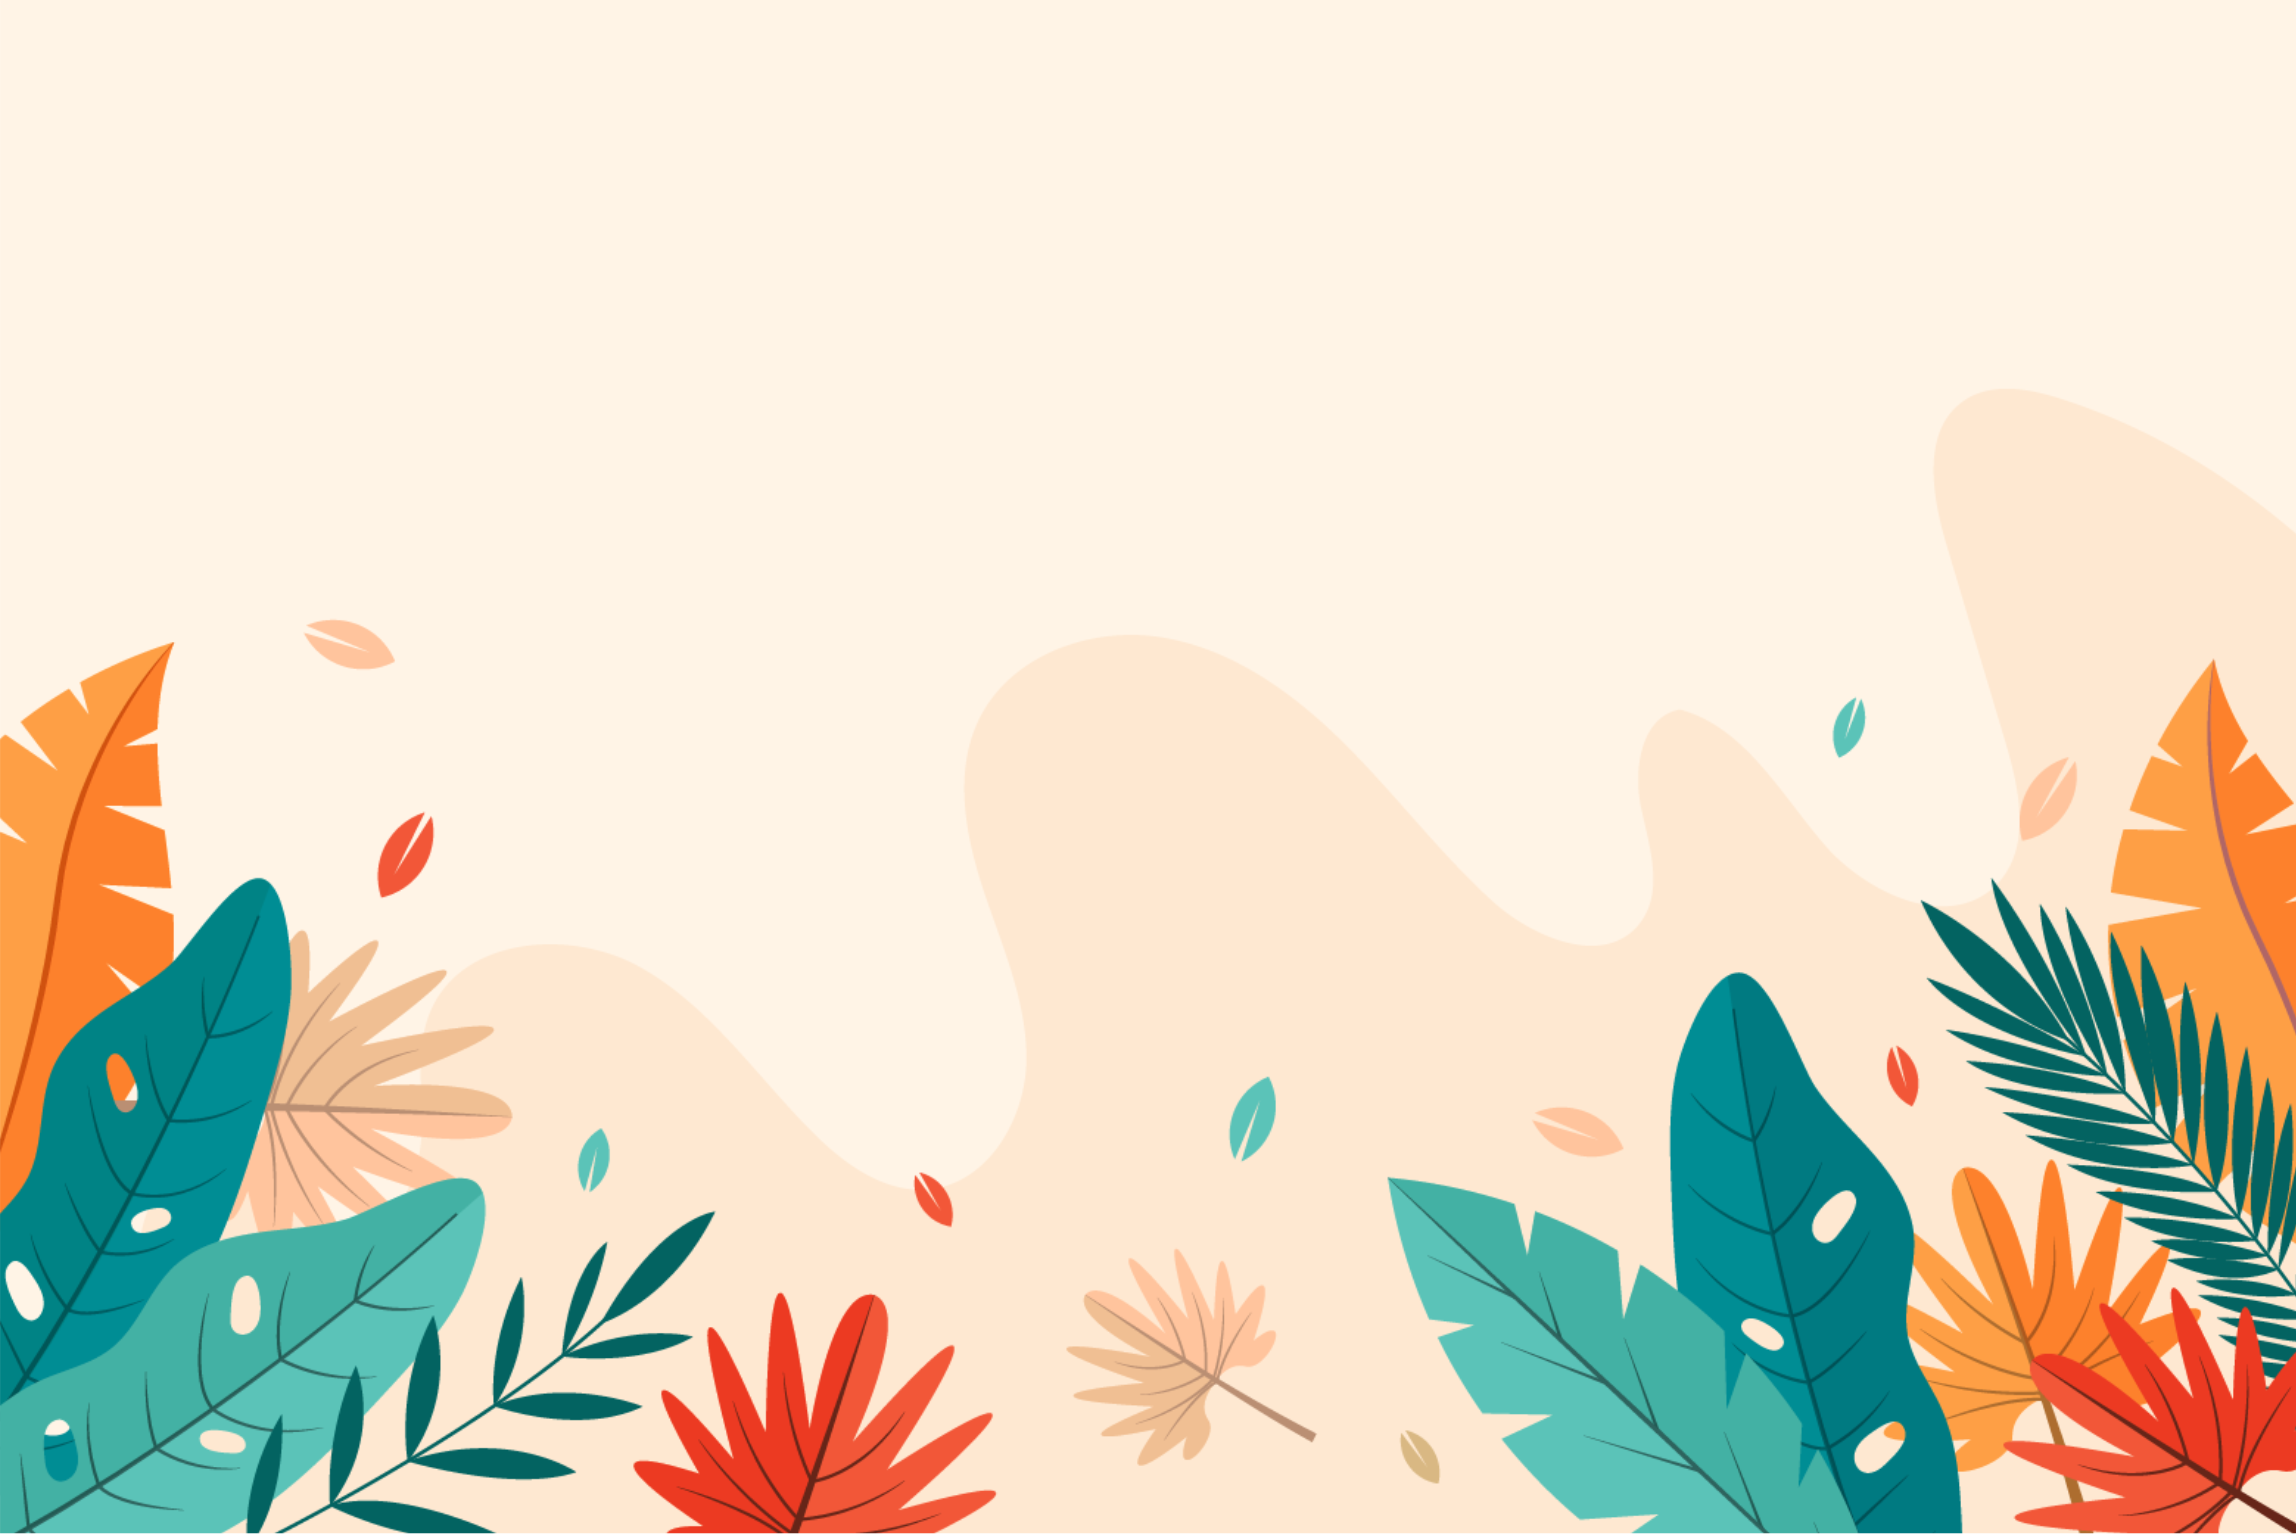
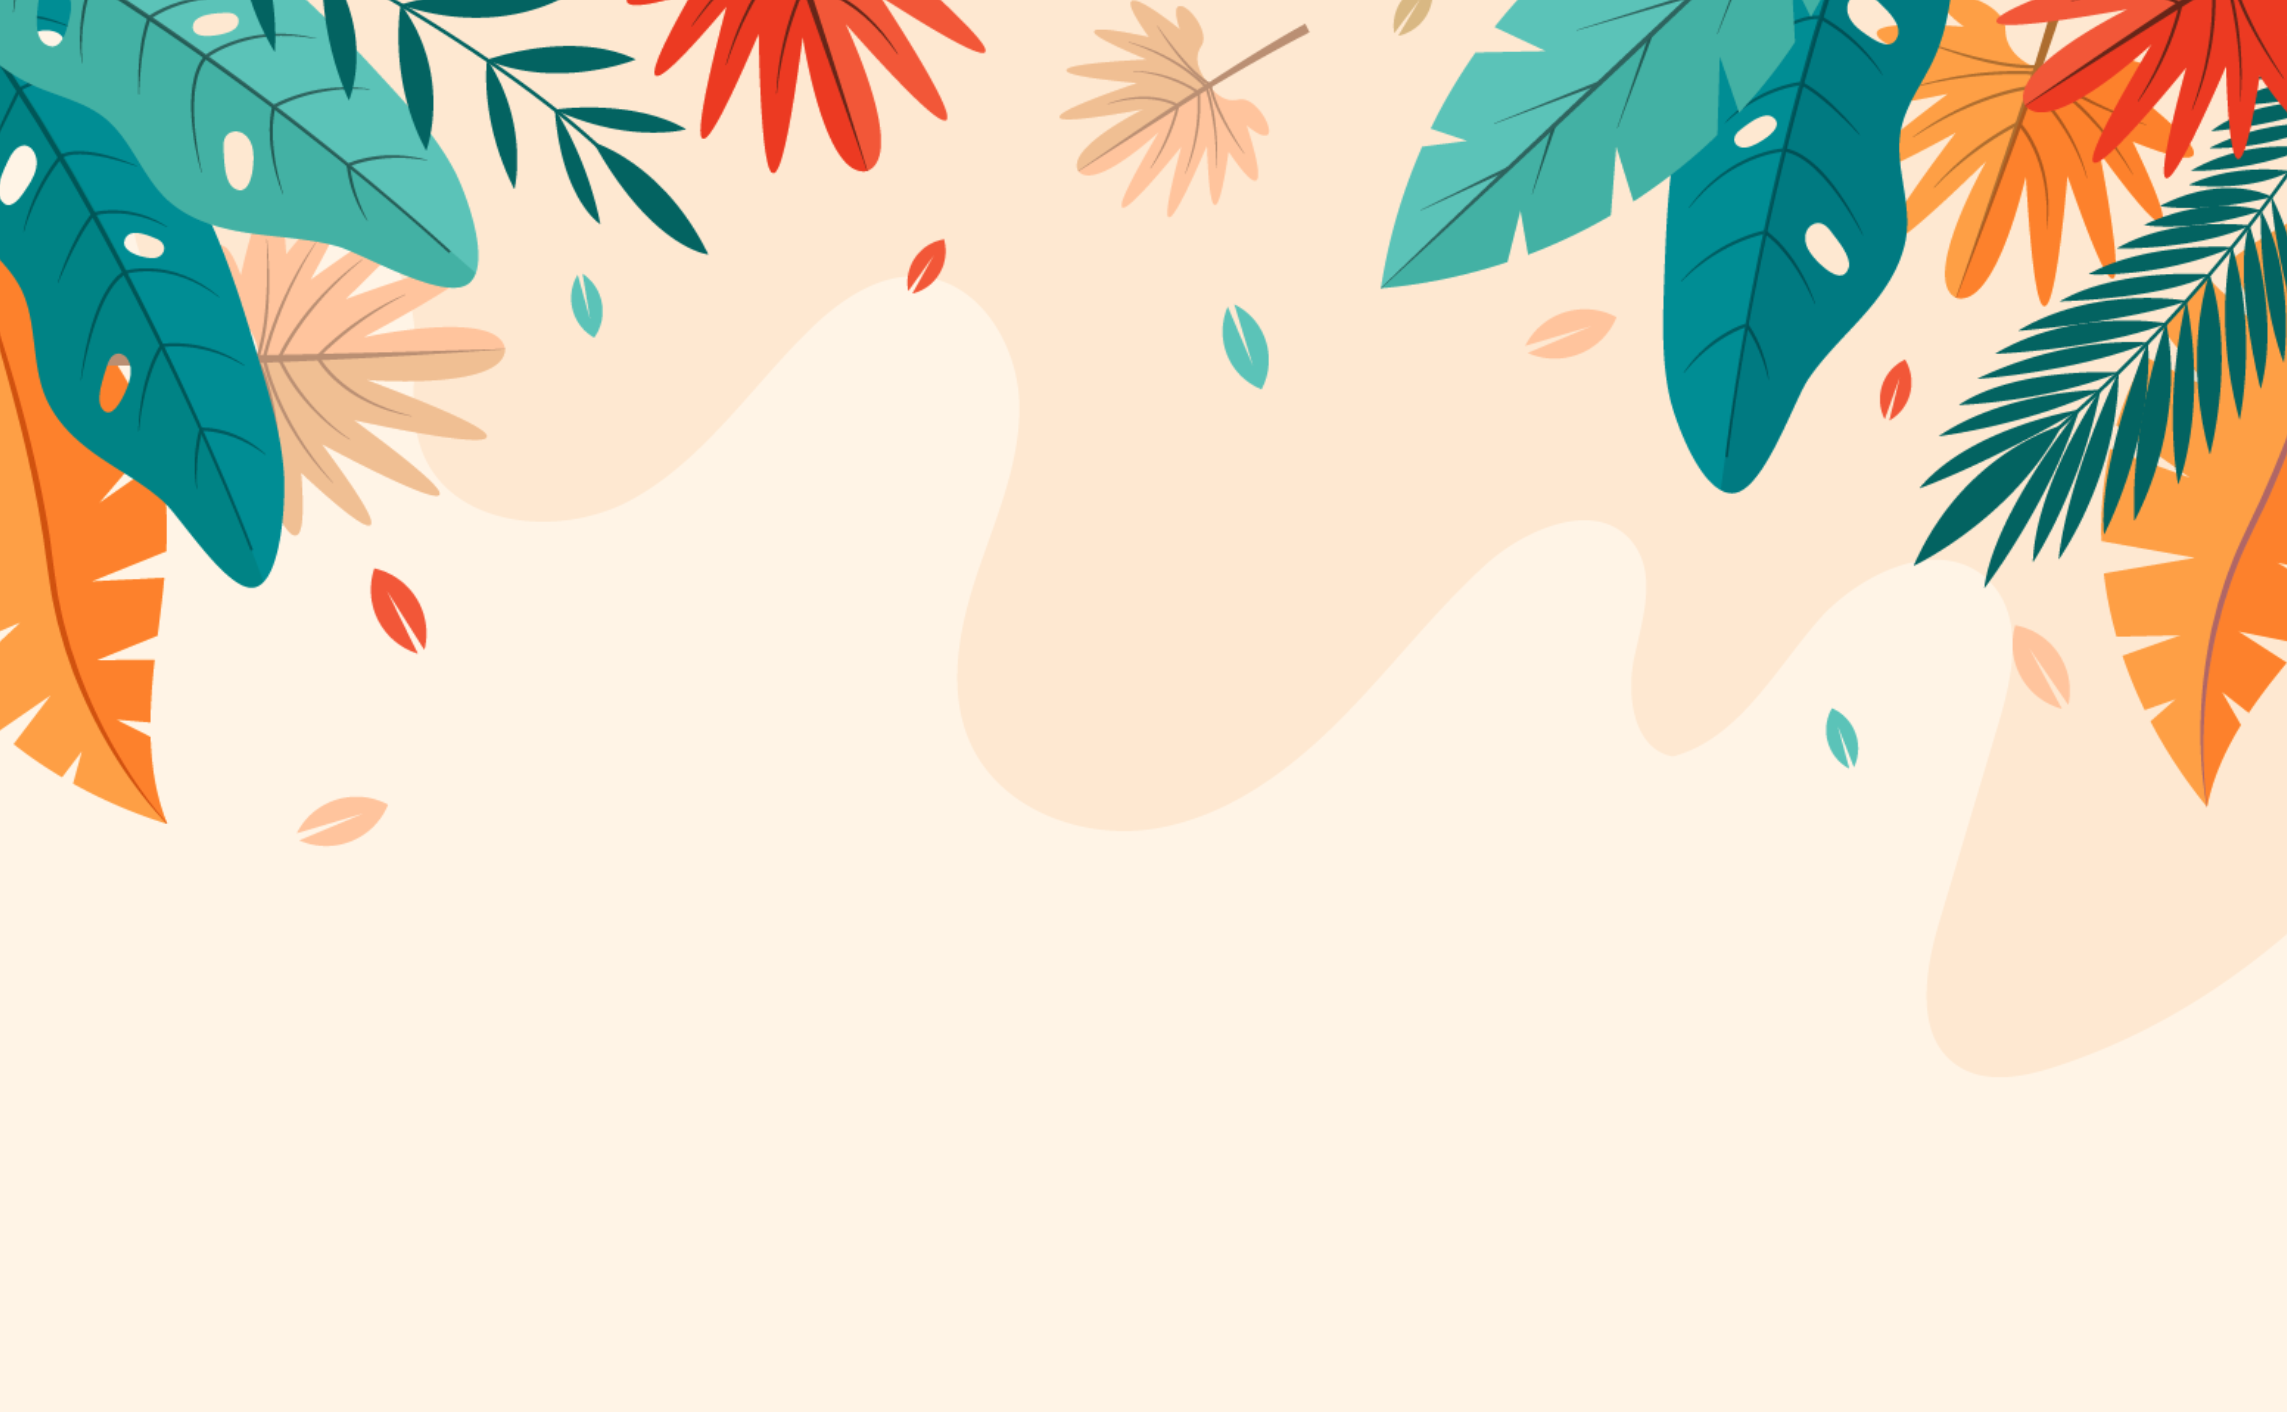
Updated the page's styling

diff --git a/public/index.html b/public/index.html
@@ -13,31 +13,32 @@
         <link rel="stylesheet" href="https://fonts.googleapis.com/css?family=Splash|Roboto|Work Sans">
         <link href="styles/index.css" rel="stylesheet">
     </head>
-    <body>
+    <body class="indexBody">
         <noscript>You need to enable JavaScript to run this app.</noscript>
         <div id="root"></div>
-        <!--
-        This HTML file is a template.
-        If you open it directly in the browser, you will see an empty page.
-
-        You can add webfonts, meta tags, or analytics to this file.
-        The build step will place the bundled scripts into the <body> tag.
-
-        To begin the development, run `npm start` or `yarn start`.
-        To create a production bundle, use `npm run build` or `yarn build`.
-        -->
-        <!--
-        manifest.json provides metadata used when your web app is installed on a
-        user's mobile device or desktop. See https://developers.google.com/web/fundamentals/web-app-manifest/
-        -->
-        <!--
-        Notice the use of %PUBLIC_URL% in the tags above.
-        It will be replaced with the URL of the `public` folder during the build.
-        Only files inside the `public` folder can be referenced from the HTML.
-
-        Unlike "/favicon.ico" or "favicon.ico", "%PUBLIC_URL%/favicon.ico" will
-        work correctly both with client-side routing and a non-root public URL.
-        Learn how to configure a non-root public URL by running `npm run build`.
-        -->
     </body>
 </html>
+
+<!--
+This HTML file is a template.
+If you open it directly in the browser, you will see an empty page.
+
+You can add webfonts, meta tags, or analytics to this file.
+The build step will place the bundled scripts into the <body> tag.
+
+To begin the development, run `npm start` or `yarn start`.
+To create a production bundle, use `npm run build` or `yarn build`.
+-->
+<!--
+manifest.json provides metadata used when your web app is installed on a
+user's mobile device or desktop. See https://developers.google.com/web/fundamentals/web-app-manifest/
+-->
+<!--
+Notice the use of %PUBLIC_URL% in the tags above.
+It will be replaced with the URL of the `public` folder during the build.
+Only files inside the `public` folder can be referenced from the HTML.
+
+Unlike "/favicon.ico" or "favicon.ico", "%PUBLIC_URL%/favicon.ico" will
+work correctly both with client-side routing and a non-root public URL.
+Learn how to configure a non-root public URL by running `npm run build`.
+-->

diff --git a/src/styles/index.css b/src/styles/index.css
@@ -2,62 +2,12 @@
     color: black;
 }
 
-body {
+.indexBody {
     background-image: url(/src/assets/background.png);
+    /* opacity: 80%; */
+    background-size: contain;
     background-repeat: no-repeat;
-    background-size:cover;
+    background-position: top;
     font-family: "Work Sans";
+    background-color: #fff4e6;
 }
-
-/* body {
-    margin: 0;
-    font-family: -apple-system, BlinkMacSystemFont, 'Segoe UI', 'Roboto', 'Oxygen',
-        'Ubuntu', 'Cantarell', 'Fira Sans', 'Droid Sans', 'Helvetica Neue',
-        sans-serif;
-    -webkit-font-smoothing: antialiased;
-    -moz-osx-font-smoothing: grayscale;
-}
-
-code {
-    font-family: source-code-pro, Menlo, Monaco, Consolas, 'Courier New',
-    monospace;
-}
-
-.App {
-    text-align: center;
-}
-
-.App-logo {
-    height: 40vmin;
-    pointer-events: none;
-}
-
-@media (prefers-reduced-motion: no-preference) {
-.App-logo {
-    animation: App-logo-spin infinite 20s linear;
-    }
-} */
-
-/* .App-header {
-    background-color: #282c34;
-    min-height: 100vh;
-    display: flex;
-    flex-direction: column;
-    align-items: center;
-    justify-content: center;
-    font-size: calc(10px + 2vmin);
-    color: white;
-} */
-
-/* .App-link {
-    color: #61dafb;
-}
-
-@keyframes App-logo-spin {
-    from {
-        transform: rotate(0deg);
-    }
-    to {
-        transform: rotate(360deg);
-    }
-} */

diff --git a/src/App.js b/src/App.js
@@ -89,7 +89,7 @@ function App() {
   //       <section>
   //         <p className='card-message'>{props.card.message}</p>
   //         <ul className='card-controls'>
-  //           <li><p>{props.card.likes_count} 💕</p></li>
+  //           <li><p>{props.card.likesCount} ❤</p></li>
   //           <li><p onClick={() => props.plusOneCardItem(props.card)}>+1</p></li>
   //           <li><p className='card-delete' onClick={() => props.deleteCard(props.card)}>Delete</p></li>
   //         </ul>
@@ -202,11 +202,18 @@ function App() {
   // };
 
   return (
-    <div className="parentWrap">
+    <div>
       <header>
+        <br />
+        <br />
+        <br />
+        <br />
+        <br />
+        <br />
+        <br />
         <h1>Inspiration Board</h1>
       </header>
-      <body>
+      <body className="text-in-front">
         <section className="flexbox">
           <section>
             <h2>List of Boards</h2>
@@ -229,6 +236,7 @@ function App() {
             ) : (
               ""
             )}
+            <br />
             <span onClick={toggleNewBoardForm} className="toggleNewBoardForm">
               {isBoardFormVisible
                 ? "Hide New Board Form"

diff --git a/src/styles/App.css b/src/styles/App.css
@@ -1,9 +1,8 @@
 h1 {
     font-family: "Splash";
-    font-size: 5rem;
+    font-size: 6rem;
     text-align: center;
-    padding-top: 40px; 
-    padding-bottom: 30px;   
+    padding-bottom: 10px;   
 }
 
 h2 {
@@ -40,6 +39,7 @@ li {
     max-height: 300px;
     margin-left: 20px;
     margin-right: 20px;
+    padding: 20px;
     display: flex;
     flex-wrap: wrap;
     justify-content: space-between;

diff --git a/src/components/NewBoardForm.js b/src/components/NewBoardForm.js
@@ -55,7 +55,7 @@ const NewBoardForm = (props) => {
         }
         className="new-board-form__form-submit-btn"
       ></input> */}
-      <button type="Submit" className="realTime">
+      <button type="Submit" className="submitBtn">
         Create
       </button>
     </form>
